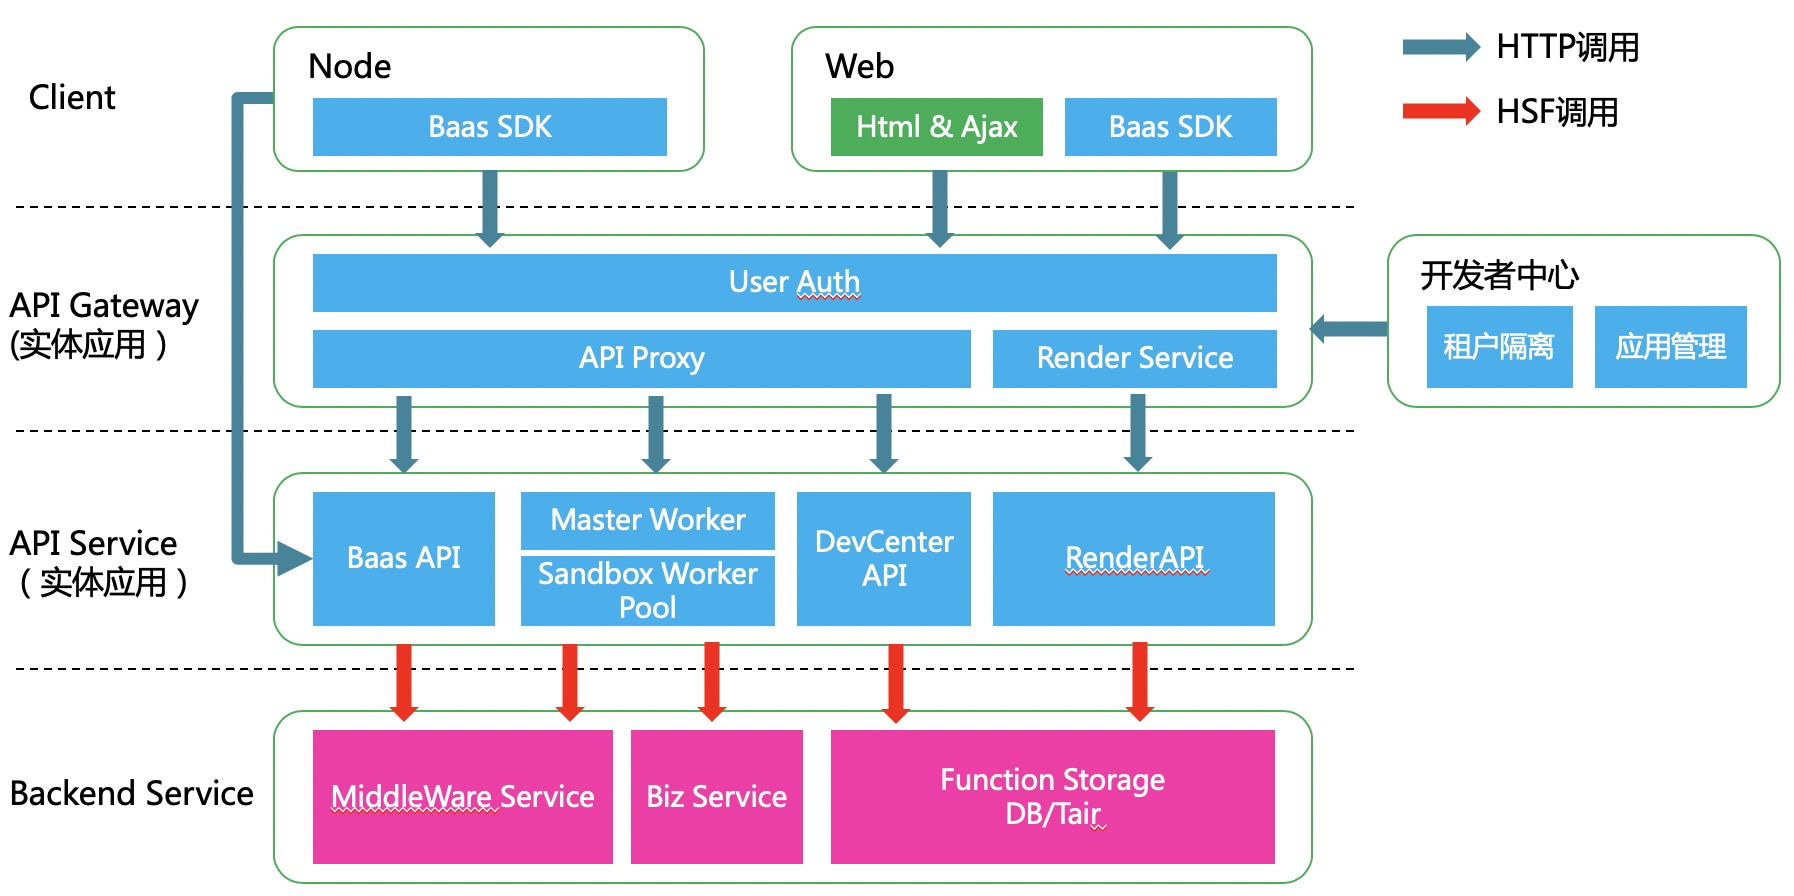
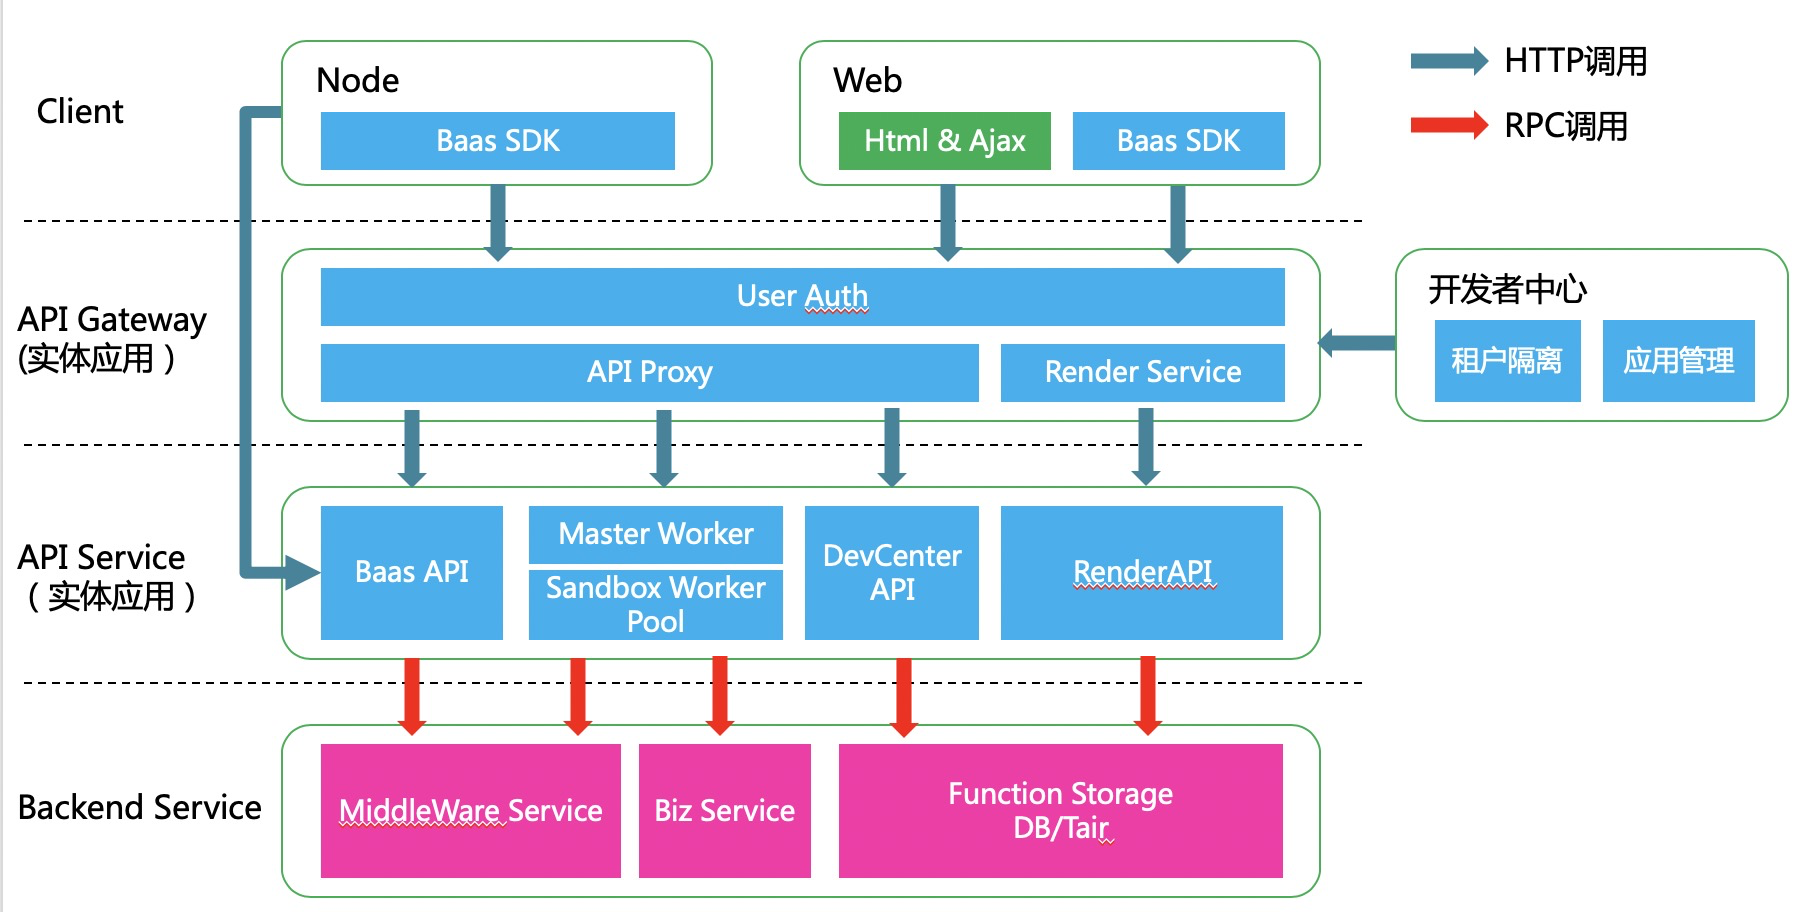
BFF serverless

diff --git a/asserts/bff/serverless-platform.md b/asserts/bff/serverless-platform.md
@@ -1,0 +1,23 @@
+## Serverless平台架构
+
+### 一、平台整体链路
+
+![整体架构图](/asserts/BFF-struct3-new.png)
+
+[整体架构介绍](/2019-03-W3.md)
+
+### 二、应用分层结构
+
+![应用分层结构](/asserts/bff-application.png)
+
+* 图中承载API Gateway的应用为work-platform，线上共部署了2台机器，预发部署了1台；
+* 承载API Service的应用为api-service-center，线上共部署了4台机器，预发部署了4台；
+* [BaaS SDK](/asserts/bff/baas_sdk_api.md)
+
+### 三、调用链路
+
+![调用链路时序图](/asserts/invoke-link.png)
+
+### 四、沙箱部分
+
+[沙箱部分](/asserts/node-sandbox.md)

diff --git a/README.md b/README.md
@@ -8,6 +8,7 @@
 ### 2019-03-W3
 
 * [2019-03-W3 基于NodeJS的serverless架构实践](/2019-03-W3.md)
+* [2019-03-W3 serverless平台架构](/asserts/bff/serverless-platform.md)
 
 ### 2019-03-W4
 
